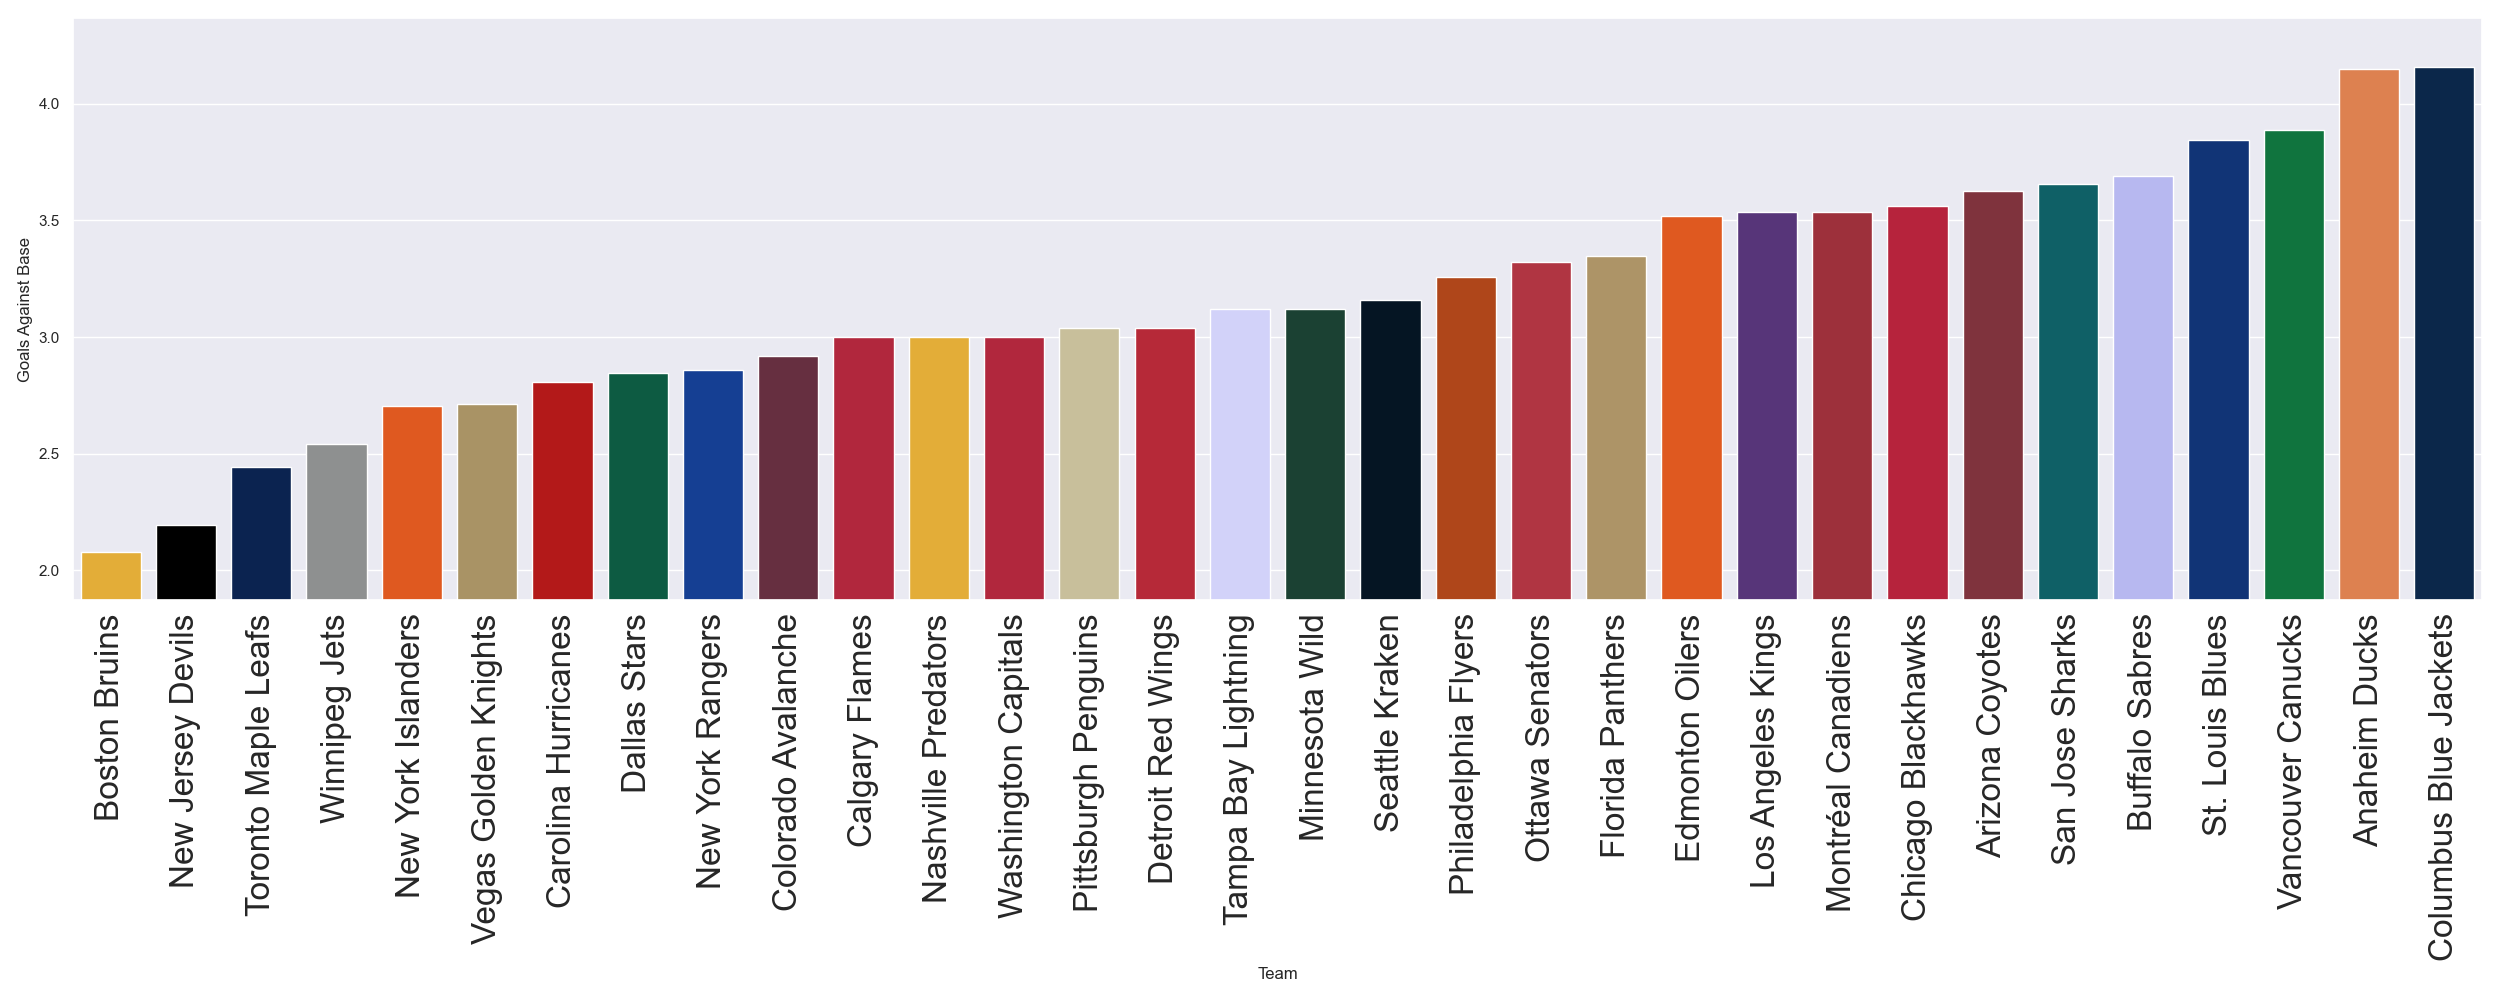
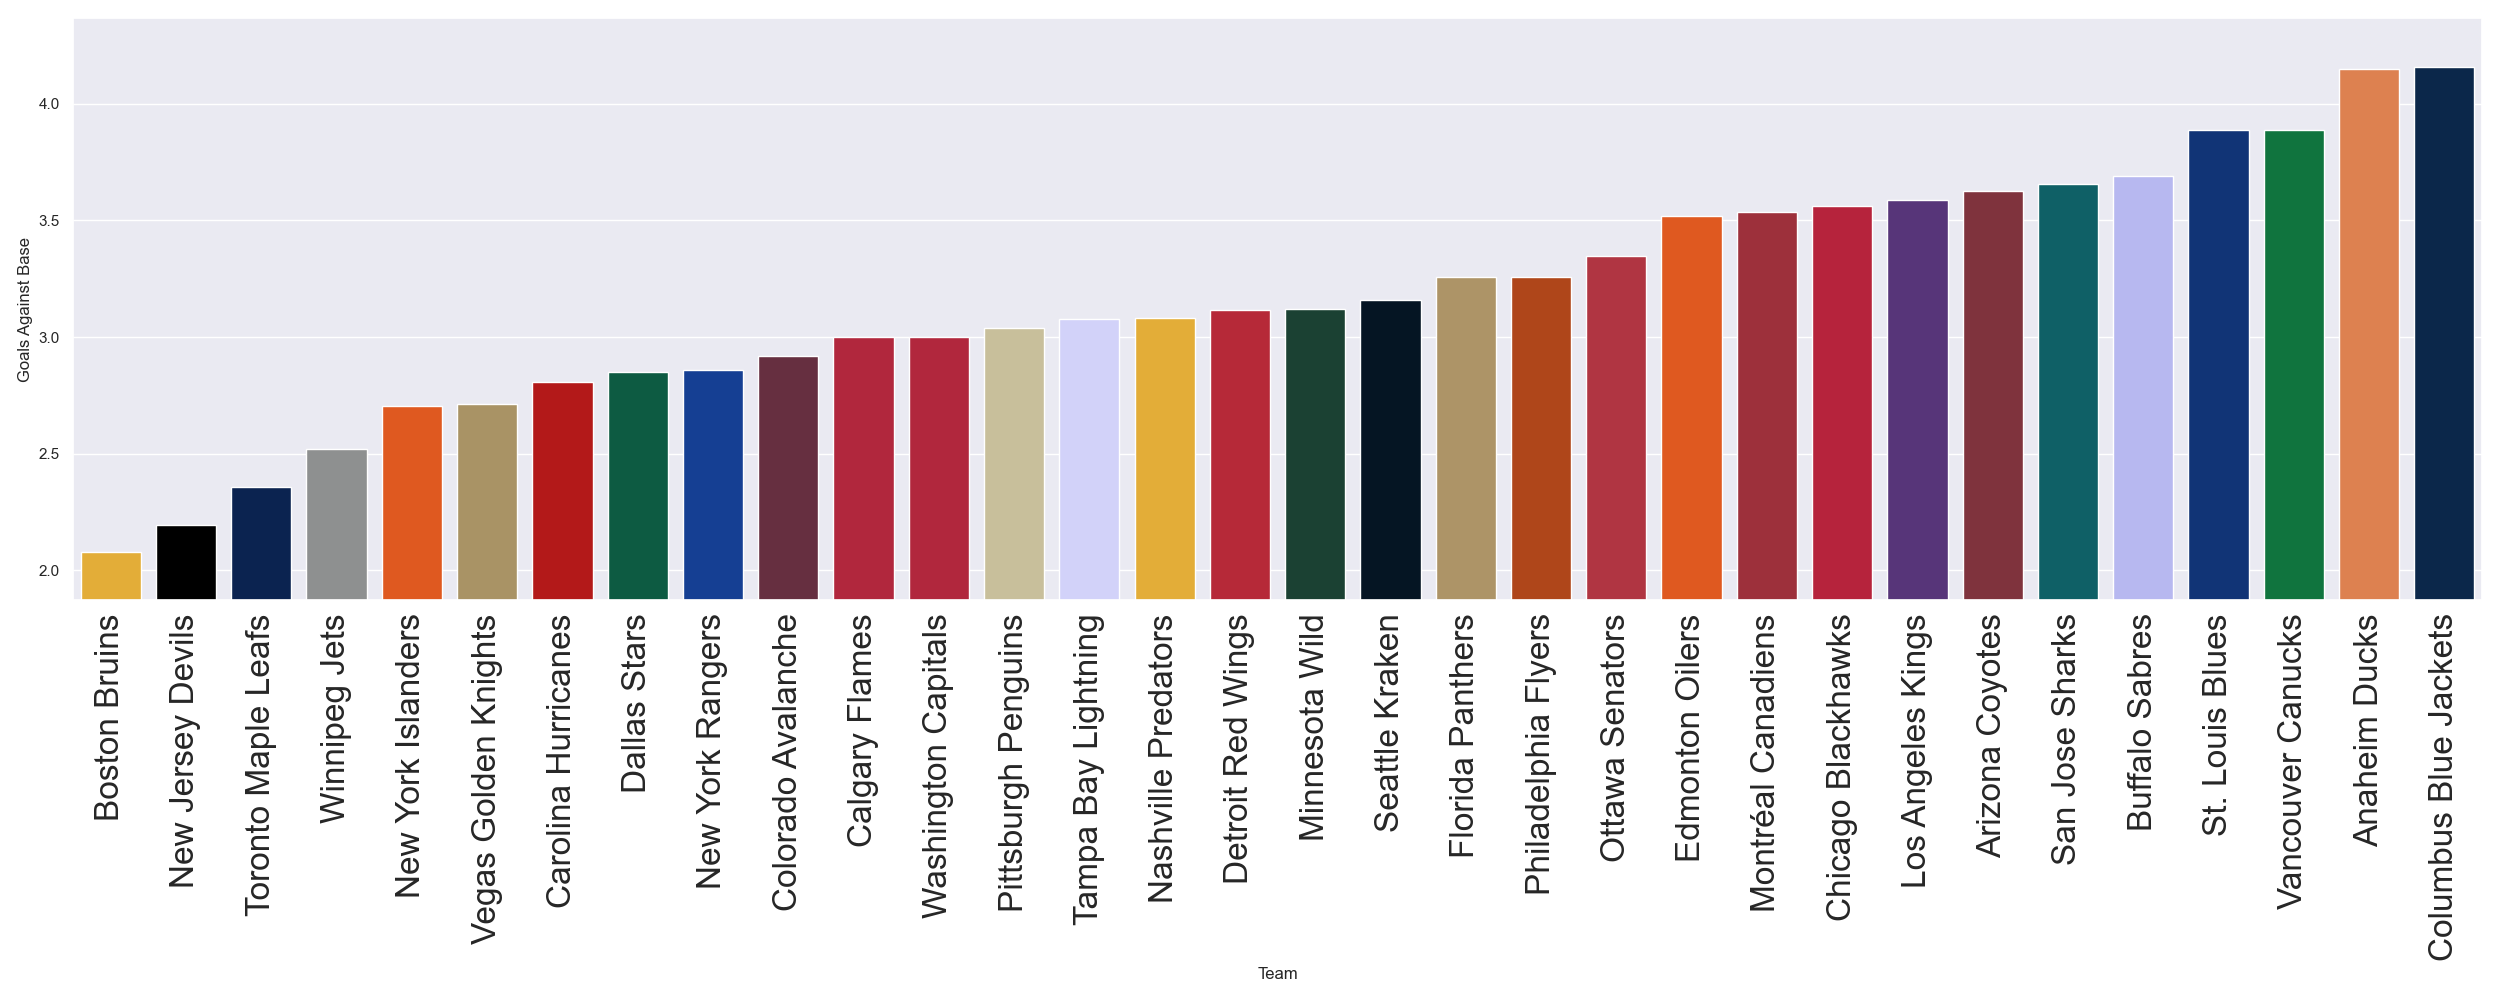
Strenght of schedule correction/formatting updates -general formatting and call ordering updates -Updated algorithm list with more recent formulas -Strength of schedule updated to remove winner rating referenes since 	teams no longer lose points for losing games, but rather just 	get no points. -Str

diff --git a/Team_Metrics/Strength_of_Schedule.py b/Team_Metrics/Strength_of_Schedule.py
@@ -98,20 +98,16 @@ def determine_winner_loser(home_team : str = "", home_score : int = 0,
 
 def get_latest_rankings(winning_team : str = "", losing_team : str = "",
                         game_date : datetime.date = None,
-                        average_rankings : dict = {}, ranking_dates : list = [])\
-                                                     -> tuple((float, float)):
-
-    winner_rating = 0
+                        average_rankings : dict = {},
+                        ranking_dates : list = []) -> tuple((float, float)):
     loser_rating = 0
     total_weeks = len(list(average_rankings.values())[0])-1
     try:
         
         # loop through all rating points until the most recent before the
         # date of the game is found
-        while (total_weeks > 0):
-            if game_date > ranking_dates[total_weeks]:
-                winner_rating = float(
-                    average_rankings[winning_team][total_weeks])
+        while (total_weeks >= 0):
+            if game_date >= ranking_dates[total_weeks]:
                 loser_rating = float(average_rankings[losing_team][total_weeks])
 
                 # if we find the correct week, then skip the loop
@@ -124,10 +120,9 @@ def get_latest_rankings(winning_team : str = "", losing_team : str = "",
         # there might not have been any ranking data available at the time
         # of the game. Just use a default which will grant no points
         # to either team.
-        if total_weeks == 0:
-            winner_rating = 1
+        if total_weeks < 0:
             loser_rating = 32
-        return (winner_rating, loser_rating)
+        return loser_rating
 
     except Exception as e:
         print(winning_team, losing_team)
@@ -135,36 +130,29 @@ def get_latest_rankings(winning_team : str = "", losing_team : str = "",
         raise e
 
 
-def scale_game_rating(winner_rating : float = 0.0, loser_rating : float = 0.0,
-                      score_difference : int = 1, extra_time : str = "") \
-                                                    -> tuple((float, float)):
+def scale_game_rating(loser_rating : float = 0.0, score_difference : int = 1,
+                      extra_time : str = "") -> tuple((float, float)):
 
     # any win by 4 or more goals gets full credit
     if (score_difference >= 4):
-        return (winner_rating * strength_of_schedule_weights.FOUR_OR_MORE.value,
-            loser_rating * strength_of_schedule_weights.FOUR_OR_MORE.value)
+        return loser_rating * strength_of_schedule_weights.FOUR_OR_MORE.value
 
     # a win by 3 goals is slightly closer and might have an ENG so slightly less
     if (score_difference == 3):
-        return (winner_rating * strength_of_schedule_weights.THREE_GOALS.value,
-            loser_rating * strength_of_schedule_weights.THREE_GOALS.value)
+        return loser_rating * strength_of_schedule_weights.THREE_GOALS.value
 
     # a win by 1/2 goals is generally a close game with an ENG likely majority
     # credit but not full
     if ((score_difference >= 1) and (extra_time == "3rd")):
-        return (winner_rating * strength_of_schedule_weights.TWO_OR_ONE.value,
-            loser_rating * strength_of_schedule_weights.TWO_OR_ONE.value)
+        return loser_rating * strength_of_schedule_weights.TWO_OR_ONE.value
 
     # if you had to go to OT then it was a really close win
     if (extra_time == "OT"):
-        return (winner_rating * strength_of_schedule_weights.OT_GAME.value,
-            loser_rating * strength_of_schedule_weights.OT_GAME.value)
+        return loser_rating * strength_of_schedule_weights.OT_GAME.value
 
     # shootouts are basically just luck on some level and have little
     # correlation to how good the actual team is
-    else:
-        return (winner_rating * strength_of_schedule_weights.SO_GAME.value,
-            loser_rating * strength_of_schedule_weights.SO_GAME.value)
+    return loser_rating * strength_of_schedule_weights.SO_GAME.value
 
 
 def read_matches(average_rankings : dict = {}, ranking_dates : list = []) \
@@ -190,16 +178,14 @@ def read_matches(average_rankings : dict = {}, ranking_dates : list = []) \
 
             # now given the winner, loser, get the latest rankings for the two
             # teams that they should use for the update
-            (winner_rating, loser_rating) = get_latest_rankings(winner, loser,
-                game_date, average_rankings, ranking_dates)
+            loser_rating = get_latest_rankings(winner, loser, game_date,
+                average_rankings, ranking_dates)
 
             # adjust the final points given/taken based on the size of the win
-            (adjusted_winner_rating, adjusted_loser_rating) = scale_game_rating(
-                winner_rating, (33 - loser_rating), score_difference,
-                extra_time)
+            adjusted_loser_rating = scale_game_rating((33 - loser_rating),
+                score_difference, extra_time)
 
             strength_of_schedule[winner] += (adjusted_loser_rating)
-            #strength_of_schedule[loser] -= (adjusted_winner_rating)
 
 
 def strength_of_schedule_scale_by_game() -> None:

diff --git a/Plotter.py b/Plotter.py
@@ -43,7 +43,7 @@ team_color_hex_codes = {
 def plot_data_set(csv_file : str = "", axis : list = [],
                   upper_bound : float = 0.0, lower_bound : float = 0.0,
                   tick_set : list = [], image_file : str = "",
-                  ascending=False) -> None:
+                  ascending : bool=False) -> None:
     plot_data = pd.read_csv(csv_file, delimiter='\t', encoding='utf-8')
     plot_data = plot_data.sort_values(axis[1], ascending=ascending)
     sns.set_theme()
@@ -97,7 +97,7 @@ def plot_trend_set(csv_file : str = "", axis : list = [],
 def plot_player_ranking(csv_file : str = "", axis : list = [],
                         upper_bound : float = 0.0, lower_bound : float = 0.0,
                         tick_set : list = [], image_file : str = "",
-                        ascending=False) -> None:
+                        ascending: bool=False) -> None:
     plot_data = pd.read_csv(csv_file, delimiter='\t', encoding='utf-8')
     plot_data = plot_data.sort_values(axis[1], ascending=ascending)
     sns.set_theme()

diff --git a/TeamEngine.py b/TeamEngine.py
@@ -434,16 +434,13 @@ if __name__ == "__main__":
     parse_all_data_files()
 
     # calculate all the elements of the score and plot them
-    print("Recent Form")
-    calculate_recent_form(UPDATE_TRENDS)
-
     print("Strenght of Schedule")
     calculate_strenght_of_schedule(UPDATE_TRENDS)
 
     print("Win Rating")
     calculate_win_rating(UPDATE_TRENDS)
 
-    # print("Clutch Rating")
+    # print("Clutch Rating") CURRENTLY BEING REVIEWED
     # calculate_clutch_rating(UPDATE_TRENDS)
 
     print("Offensive Rating")
@@ -451,6 +448,9 @@ if __name__ == "__main__":
 
     print("Defensive Rating")
     calculate_defensive_rating(UPDATE_TRENDS)
+
+    print("Recent Form")
+    calculate_recent_form(UPDATE_TRENDS)
 
     # combine all factors and plot the total rankings
     print("Combining All Metrics")

diff --git a/Goalie_Metrics/Goalie_Save_Percentage.py b/Goalie_Metrics/Goalie_Save_Percentage.py
@@ -38,7 +38,7 @@ def goalie_save_percentage_get_data(active_goalies : dict={}) -> list:
 
 
 def goalie_save_percentage_scale_for_volume(metric_list : list=[],
-    active_goalies : dict={}) -> list:
+                                            active_goalies : dict={}) -> list:
     for goalie in metric_list[0].keys():
 
         # shortcut to access stats more cleanly

diff --git a/Goalie_Metrics/Goalie_Utilization.py b/Goalie_Metrics/Goalie_Utilization.py
@@ -10,7 +10,7 @@ def goalie_utilization_get_dict() -> dict:
 
 
 def goalie_utilization_calculate_time_on_ice(active_goalies : dict={},
-    all_team_stats : dict={}) -> None:
+                                             all_team_stats : dict={}) -> None:
 
     # loop through and populate the time on ice
     for goalie in active_goalies.keys():
